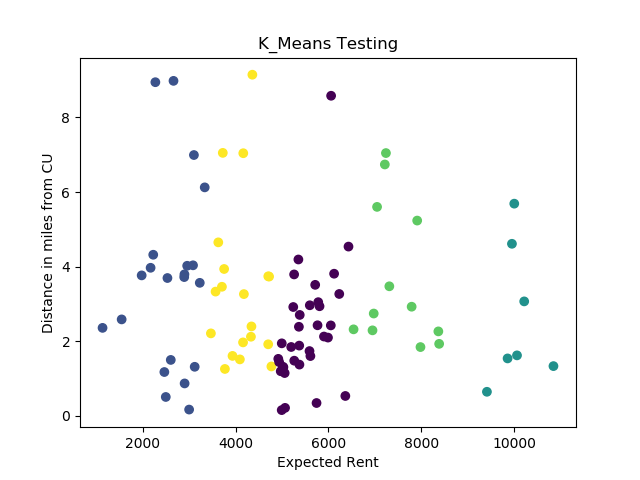
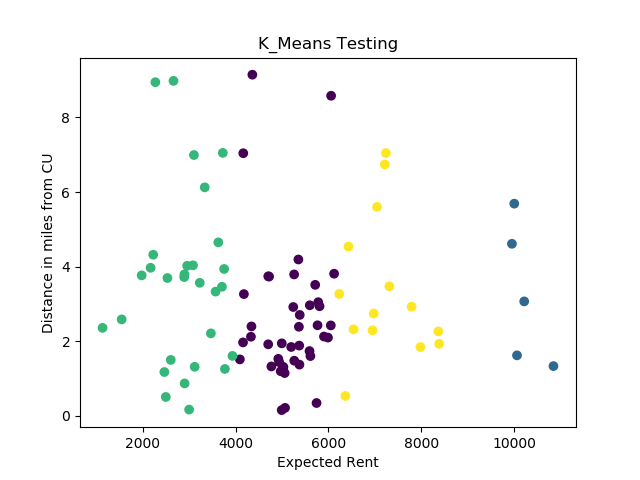
Browse page now displayes the Antoku Score

diff --git a/Antoku_Docker/api/templates/details.html b/Antoku_Docker/api/templates/details.html
@@ -1,160 +1,55 @@
-<!DOCTYPE html>
-<html lang="en">
-<head>
-  <title>Antoku - Search Results</title>
-  <meta charset="utf-8">
-  <meta name="viewport" content="width=device-width, initial-scale=1">
-  <link rel="stylesheet" href="https://maxcdn.bootstrapcdn.com/bootstrap/3.4.0/css/bootstrap.min.css">
+  <html>
+  <head>
+    <script type="text/javascript" src="https://www.gstatic.com/charts/loader.js"></script>
+    <script type="text/javascript">
+      google.charts.load('current', {'packages':['corechart']});
+      google.charts.setOnLoadCallback(drawChart);
 
-  <script src="https://ajax.googleapis.com/ajax/libs/jquery/3.3.1/jquery.min.js"></script>
-  <script src="https://maxcdn.bootstrapcdn.com/bootstrap/3.4.0/js/bootstrap.min.js"></script>
-  <link rel="stylesheet" href="../static/css/Antoku_search.css">
-    
-</head>
-<body style="overflow-x: hidden;" >
+      function drawChart() {
+        var data = google.visualization.arrayToDataTable([
+          ['Year', 'Student Population'],
+          ['1992',  25004],
+          ['1993',  24997],
+          ['1994',  24503],
+          ['1995',  24390],
+          ['1996',  24563],
+          ['1997',  25062],
+          ['1998',  25074],
+          ['1999',  25696],
+          ['2000',  26035],
+          ['2001',  26597],
+          ['2002',  27954],
+          ['2003',  29151],
+          ['2004',  29258],
+          ['2005',  28624],
+          ['2006',  28942],
+          ['2007',  28988],
+          ['2008',  29709],
+          ['2009',  30196],
+          ['2010',  29925],
+          ['2011',  29884],
+          ['2012',  29278],
+          ['2013',  29325],
+          ['2014',  29772],
+          ['2015',  31300],
+          ['2016',  31861],
+          ['2017',  33246],
+          ['2018',  34510]
+        ]);
 
-<!--NAV BAR -->
-<nav class="navbar navbar-default">
-  <div class="container-fluid">
-    <div class="navbar-header">
-      <button type="button" class="navbar-toggle" data-toggle="collapse" data-target="#myNavbar">
-        <span class="icon-bar"></span>
-        <span class="icon-bar"></span>
-        <span class="icon-bar"></span>                        
-      </button>
-      
-    </div>
-    <div class="collapse navbar-collapse" id="myNavbar">
-      <ul class="nav navbar-nav n_left">
-        <li><a href="{{ url_for('home') }}">Home</a></li>
-        <li class="active"><a href="#">Property Details</a></li>
-        <li><a href="#">Project Description</a></li>
-       
-      </ul>
-      <ul class="nav navbar-nav justified n_center">
-        <li><img src="../static/img/A_logo.png" height="100" width="275"></li>
-      </ul>
-      <ul class="nav navbar-nav navbar-right n_right">
-        <li><a href="#"><span class="glyphicon glyphicon-log-in"></span> Login</a></li>
-      </ul>
-    </div>
-  </div>
-</nav>
-<!--END NAV BAR -->
+        var options = {
+          title: 'University of Colorado Boulder Student Population',
+          curveType: 'function',
+          legend: { position: 'bottom' }
+        };
 
-<div class="container-fluid text-center">    
-  
-    <div class="col-sm-1 sidenav">
-      </div>
+        var chart = new google.visualization.LineChart(document.getElementById('curve_chart'));
 
-    <div class="col-sm-10 text-left"> 
-      <br>
-      <div class="main_justified">
-          <h1 >Search Results</h1>
-
-      <!-- START INDEX MAIN CARD-->
-      <div class="index_card" style="border: solid 1px black; border-radius: 5px;" >
-        <div class="Result" style="width: 95%; height: 150px;  padding: 15px;">
-          <div class="row">
-            <div class="col-sm-2" style="margin-top: 10px;">
-              <img src="../static/img/Home_img/{{ content[0].zillow_id }}.jpg" height="100" width="150">
-            </div>
-            <div class="col-sm-5" style="text-align: left; margin-left: 20px; ">
-
-              <div class="row">
-                <div class="col-sm-4" >
-                  <h4>Street Address:<h4> 
-                </div>
-                <div class="col-sm-6">
-                  <h5>{{ content[0].street_address }}<h5>
-                </div>
-              </div>
-
-              <div class="row">
-                <div class="col-sm-4">
-                  <h4>Zip:<h4> 
-                </div>
-                <div class="col-sm-6">
-                  <h5>{{ content[0].zipcode }}<h5>
-                </div>
-              </div>
-
-              <div class="row">
-                <div class="col-sm-4">
-                  <h4>Zillow ID:<h4> 
-                </div>
-                <div class="col-sm-6">
-                  <h5>{{ content[0].zillow_id }}<h5>
-                </div>
-              </div>
-
-
-
-            </div>
-            <div class="col-sm-5" style="text-align: left;  margin-left: -20px;">
-                <div class="row">
-                <div class="col-sm-4">
-                  <h4>Zestimate:<h4> 
-                </div>
-                <div class="col-sm-6">
-                  <h5>$ {{ content[0].Zestimate }}<h5>
-                </div>
-              </div>
-            </div>
-
-          </div>        
-        </div>
-        
-      </div>
-      <!-- END INDEX MAIN CARD-->
-          
-                 
-      </div>
-
-      </div>
-    
-    <div class="col-sm-1 sidenav">
-    </div>
-    </div>
-</div>
-<footer class="container-fluid text-center">
-  <p>Antoku created by: Michael Wegner | Daniel Zhou | Josh Aguilar </p>
-</footer>
-<script type="text/javascript">
-    var locations = [
-          ['2893 Springdale Ln, Boulder, CO', 40.009373, -105.255454, 4],
-          ['3000 Broadway #2, Boulder, CO', 40.029218, -105.281083, 5],
-          ['1623 19th St, Boulder, CO', 40.015852, -105.27058, 3],
-        ];
-    // Initialize and add the map
-    function initMap() {
-      // The location of Uluru
-      var boulder = {lat: 40.04, lng: -105.27};
-      // The map, centered at Uluru
-      var map = new google.maps.Map(
-          document.getElementById('map'), {zoom: 11, center: boulder});
-      // The marker, positioned at Uluru
-      var myLatLng = [{lat: 40.009373, lng: -105.255454},{lat: 40.029218, lng: -105.281083},{lat: 40.015852, lng: -105.27058}];
-      var marker = new google.maps.Marker({
-          position: myLatLng[0],
-          map: map,
-          title: '2893 Springdale Ln, Boulder, CO'
-        });
-      var marker = new google.maps.Marker({
-          position: myLatLng[1],
-          map: map,
-          title: '3000 Broadway #2, Boulder, CO'
-        });
-      var marker = new google.maps.Marker({
-          position: myLatLng[2],
-          map: map,
-          title: '1623 19th St, Boulder, CO'
-        });
-    }
-    
-</script>
-<script async defer
-    src="https://maps.googleapis.com/maps/api/js?key=AIzaSyC0IuivzVdNQnYQ0kIcZ7x_an7bJ7BwC3o&callback=initMap">
-</script>
-</body>
+        chart.draw(data, options);
+      }
+    </script>
+  </head>
+  <body>
+    <div id="curve_chart" style="width: 900px; height: 500px"></div>
+  </body>
 </html>

diff --git a/Antoku_Docker/api/templates/browse.html b/Antoku_Docker/api/templates/browse.html
@@ -69,11 +69,11 @@
 
                 {% for home in content %}
                   <!--Standard list item -->
-                   <div class="hl_item" style="width: 380px; float: left; height: 250px;">
-                      <div class="row" style="padding: 10px; border: 1px solid grey; border-radius: 5px; margin: 5px; box-shadow: 0 4px 8px 0 rgba(0,0,0,0.2); height: 230px;">
+                   <div class="hl_item" style="width: 380px; float: left; height: 295px;">
+                      <div class="row" style="padding: 10px; border: 1px solid grey; border-radius: 5px; margin: 5px; box-shadow: 0 4px 8px 0 rgba(0,0,0,0.2); height: 290px;">
                         <div class="col-sm-2" style="margin-left:-5px;margin-right:-15px;padding-top: 15px;">
                           <img src="../static/img/Home_img/{{ home.zillow_id }}.jpg" height="100" width="150">
-                          <h3>{{ home.index }}<h3>
+                          
                         </div>
                         <div class="col-sm-8" style="margin-left:95px;padding-top: 5px; padding-left: 30px; text-align: center; margin-right: -30px;">
                           <div class="row">
@@ -103,9 +103,9 @@
                           
                         </div>
                       <!--Antoku Score chart here-->
-                      <div class="col-sm-6" style="padding-top: 20px;">
-                          TEST
-                      </div>
+                      <h4>Antoku Score </h4>
+                       <img src="../static/img/A_score_{{ home.AScore }}.png" height="100" width="250">
+                      
                       <!--End Antoku Score chart-->
                       </div>
                       

diff --git a/CodeBank/K_means_data.py b/CodeBank/K_means_data.py
@@ -64,13 +64,19 @@ def generate_Comp_fields_txt():
 def generate_only_comp_fields_db():
 	conn = sqlite3.connect("K_means_data.db")
 	curs = conn.cursor()
-	curs.execute("CREATE TABLE Address (street_address TEXT, zipcode INTEGER, zillow_id INTEGER PRIMARY KEY, Zestimate INTEGER, NumBath INTEGER, NumBed INTEGER, LNG REAL, LAT REAL);")
+	curs.execute("CREATE TABLE Address (street_address TEXT, zipcode INTEGER, zillow_id INTEGER PRIMARY KEY, Zestimate INTEGER, NumBath INTEGER, NumBed INTEGER, LNG REAL, LAT REAL,AScore INTEGER);")
 	reader = csv.reader(open('K_means_data.txt', 'r'), delimiter='|')
-	for row in reader:
 
+	a_score=[3,0,2,2,3,3,2,0,4,2,3,4,0,0,0,0,0,0,0,0,0,0,0,0,0,3,3,0,4,1,4,4,0,1,1,4,1,1,1,0,2,4,4,2,1,1,0,1,4,0,3,1,3,3,0,4,0,1,1,4,4,4,4,3,1,1,1,3,0,4,3,4,0,0,0,1,1,1,1,0,0,2,0,1,4,4,0,0,0,4,0,1,0]
+	i=0
+	print(len(a_score))
+	for row in reader:
+		if(i==92):
+			break
 		print(row)#
-		to_db = [row[0], row[1], row[2], row[3], row[4], row[5], row[6], row[7]]
-		curs.execute("INSERT INTO Address (street_address, zipcode, zillow_id, Zestimate, NumBath, NumBed, LNG, LAT) VALUES (?, ?, ?, ?, ?, ?, ?, ?);", to_db)
+		to_db = [row[0], row[1], row[2], row[3], row[4], row[5], row[6], row[7],a_score[i]]
+		i+=1
+		curs.execute("INSERT INTO Address (street_address, zipcode, zillow_id, Zestimate, NumBath, NumBed, LNG, LAT, AScore) VALUES (?, ?, ?, ?, ?, ?, ?, ?, ?);", to_db)
 	conn.commit()
 
 generate_only_comp_fields_db()

diff --git a/Antoku_Docker/api/app.py b/Antoku_Docker/api/app.py
@@ -43,16 +43,18 @@ def browse():
     conn = sqlite.connect('../data/OnlyComp.db')
     conn.row_factory = dict_factory
     cur = conn.cursor()
+
     all_data = cur.execute("SELECT * FROM Address;").fetchall()
-    #jsonify(all_data)
+    a_scores = [3,0,1,3,3,1,0,0,1,3,0,0,0,0,0,0,0,0,0,0,0,0,0,0,3,3,3,0,2,2,0,3,2,2,2,2,2,2,0,1,0,0,1,2,2,0,2,0,0,3,2,3,0,0,0,2,2,0,0,2,2,3,2,2,2,3,0,2,3,0,0,0,0,2,2,2,2,3,0,0,2,2,2,0,0,0,2,0,2,0]
+   
     ################################
     ##Testing Index
-
     content = all_data
     y=1
     for x in content:
-
+        x["AScore"] = (a_scores[y-1])+1
         x["index"] = y
+        
         y+=1
      
     #return render_template('test_temp.html', content=content)

diff --git a/CodeBank/K_means_Clustering.py b/CodeBank/K_means_Clustering.py
@@ -38,7 +38,7 @@ def distance(origin, destination):
 
 
 
-for i in range(0,96):
+for i in range(0,92):
 	if all_data[i]['Zestimate'] <=1500000:
 		CU = [40.003999984, -105.266998932]
 	
@@ -59,7 +59,7 @@ X=np.array(hold_array)
 
 
 
-y_pred = KMeans(n_clusters=5, random_state=random_state).fit_predict(X)
+y_pred = KMeans(n_clusters=4, random_state=random_state).fit_predict(X)
 print(y_pred)
 
 
